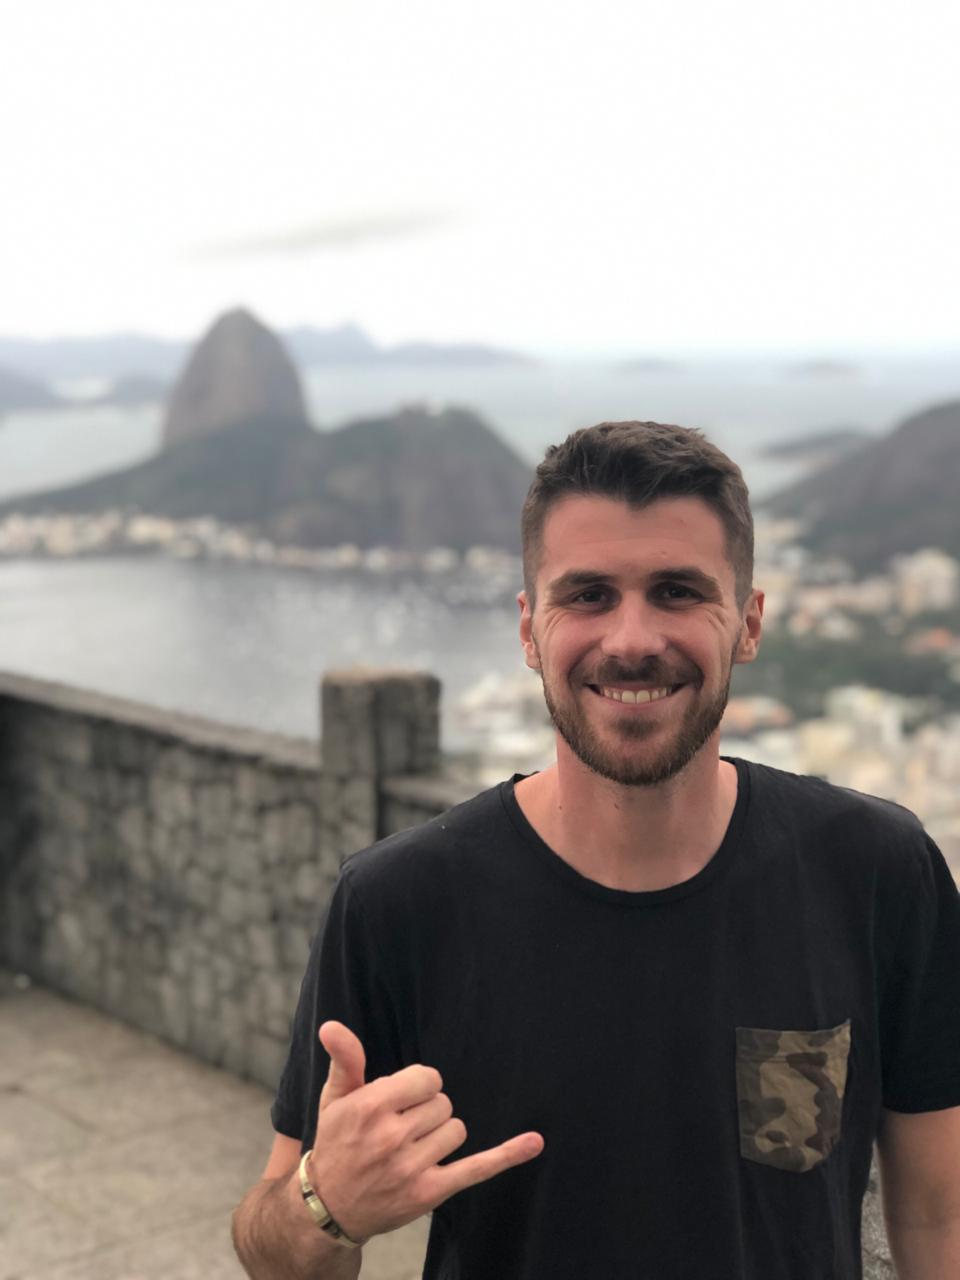
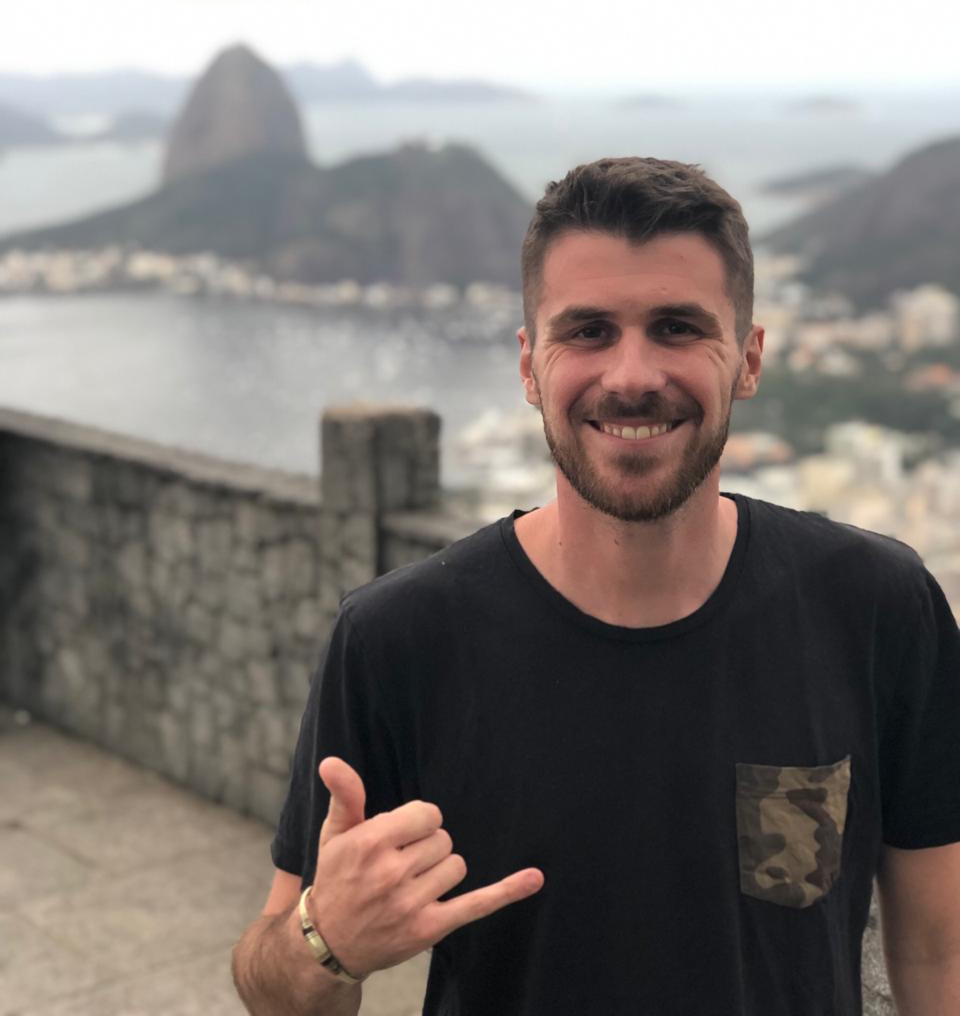
Alterações

diff --git a/pt/index.html b/pt/index.html
@@ -215,33 +215,25 @@
       <div class="container">
         <div class="text-center">
           <h2 class="section-heading text-uppercase">Quem sou eu</h2>
-          <h3 class="section-subheading text-muted text-capitalize">
+          <h3 class="section-subheading text-muted">
             <!-- <div class="card">
 
             </div> -->
-            <div class="row">
-              <p class="col-md-4">
-                MEU NOME É STEFANO GLAUCO GORINI, SOU ITALIANO, 
-                NASCIDO E CRIADO EM MILÃO E HÁ ALGUNS ANOS ME 
-                MUDEI PARA MINHA CIDADE FAVORITA: RIO DE JANEIRO.
-              </p>
-  
-              <img class="img-responsive col-md-4 border" src="/assets/img/fotos/stefano.jpeg" alt="">  
-            </div>
+            <!-- <div class="row text-center">
+            </div> -->
+
+            <p class="">
+              MEU NOME É STEFANO GLAUCO GORINI, SOU ITALIANO, 
+              NASCIDO E CRIADO EM MILÃO E HÁ ALGUNS ANOS ME 
+              MUDEI PARA MINHA CIDADE FAVORITA: RIO DE JANEIRO.
+            </p>
+            <img class="img-responsive border" id="img_me" src="/assets/img/fotos/stefano.jpeg" alt="">  
 
             <p>
               TIVE A SORTE DE VIAJAR E VISITAR MUITOS LUGARES PELO MUNDO, 
               JÁ ESTIVE EM 30 PAÍSES, MAS O RIO SEMPRE ME DEU ALGO MAIS.
             </p>
 
-            <p>
-              A FLORESTA DENTRO DA CIDADE, AS VISTAS MARAVILHOSAS, 
-              OS PORES DO SOL, AS PRAIAS, O CLIMA TROPICAL, AS DANÇAS, 
-              A MÚSICA E A ALMA CARIOCA ME CONQUISTARAM DESDE O 
-              PRIMEIRO DIA QUE CHEGUEI. AQUI CONHECI MINHA ESPOSA E 
-              COMECEI A CONSTRUIR MINHA NOVA VIDA.
-            </p>
-            
             <p>
               COMECEI E CONCLUI O CURSO PARA TORNAR-ME GUIA 
               TURÍSTICO INTERNACIONAL, ESPECIALIZADO NO RIO 

diff --git a/css/home.css b/css/home.css
@@ -58,4 +58,8 @@ main .flags img {
   margin: 10px;
   box-shadow: 0px 3px 3px rgba(0, 0, 0, 0.616);
 }
+
+#img_me {
+  width: 10px;
+}
 /*# sourceMappingURL=home.css.map */

diff --git a/css/main.css b/css/main.css
@@ -1,1 +1,4 @@
-/* No CSS *//*# sourceMappingURL=main.css.map */
+#img_me {
+  max-width: 100%;
+}
+/*# sourceMappingURL=main.css.map */

diff --git a/css/main.scss b/css/main.scss
@@ -1,0 +1,4 @@
+
+#img_me {
+  max-width: 100%;
+}

diff --git a/css/home.scss b/css/home.scss
@@ -71,3 +71,4 @@ main {
     }
   }
 }
+
